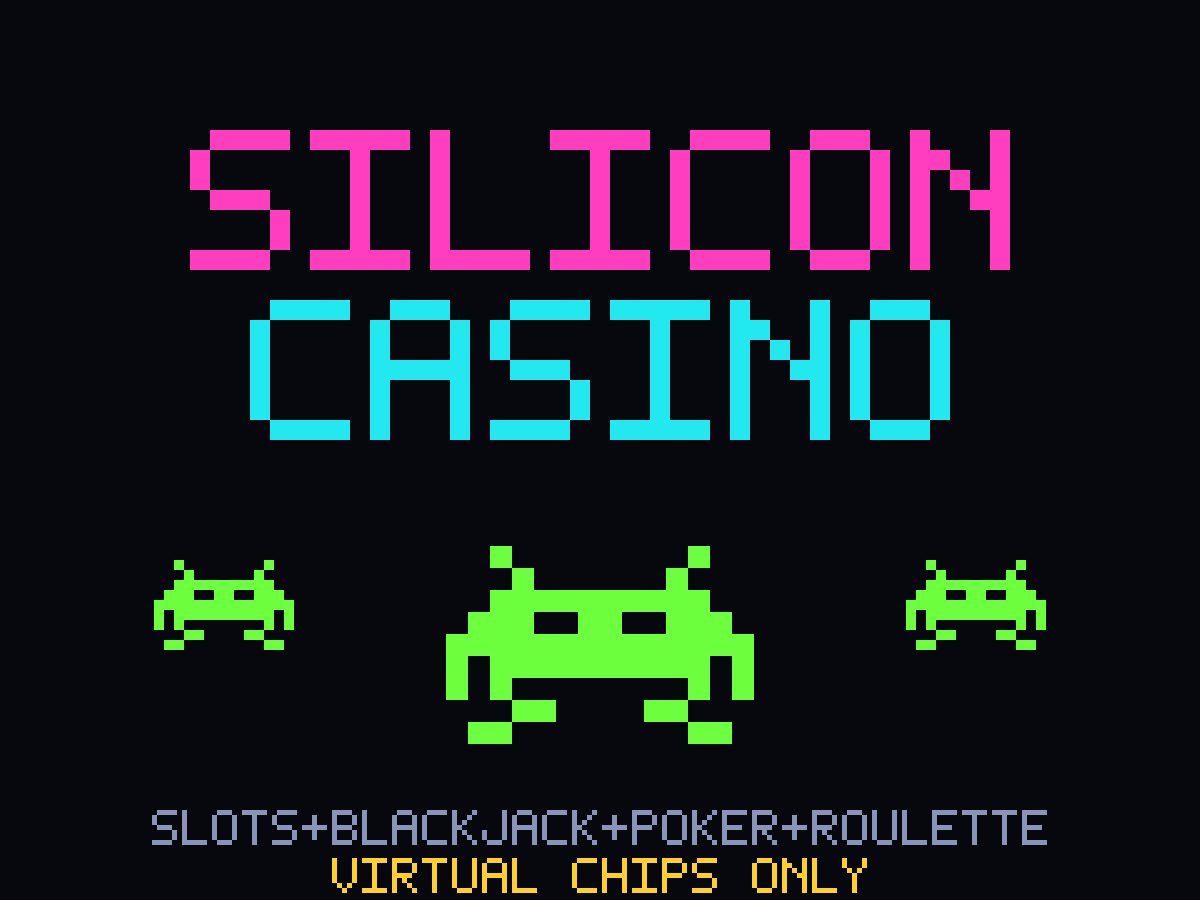
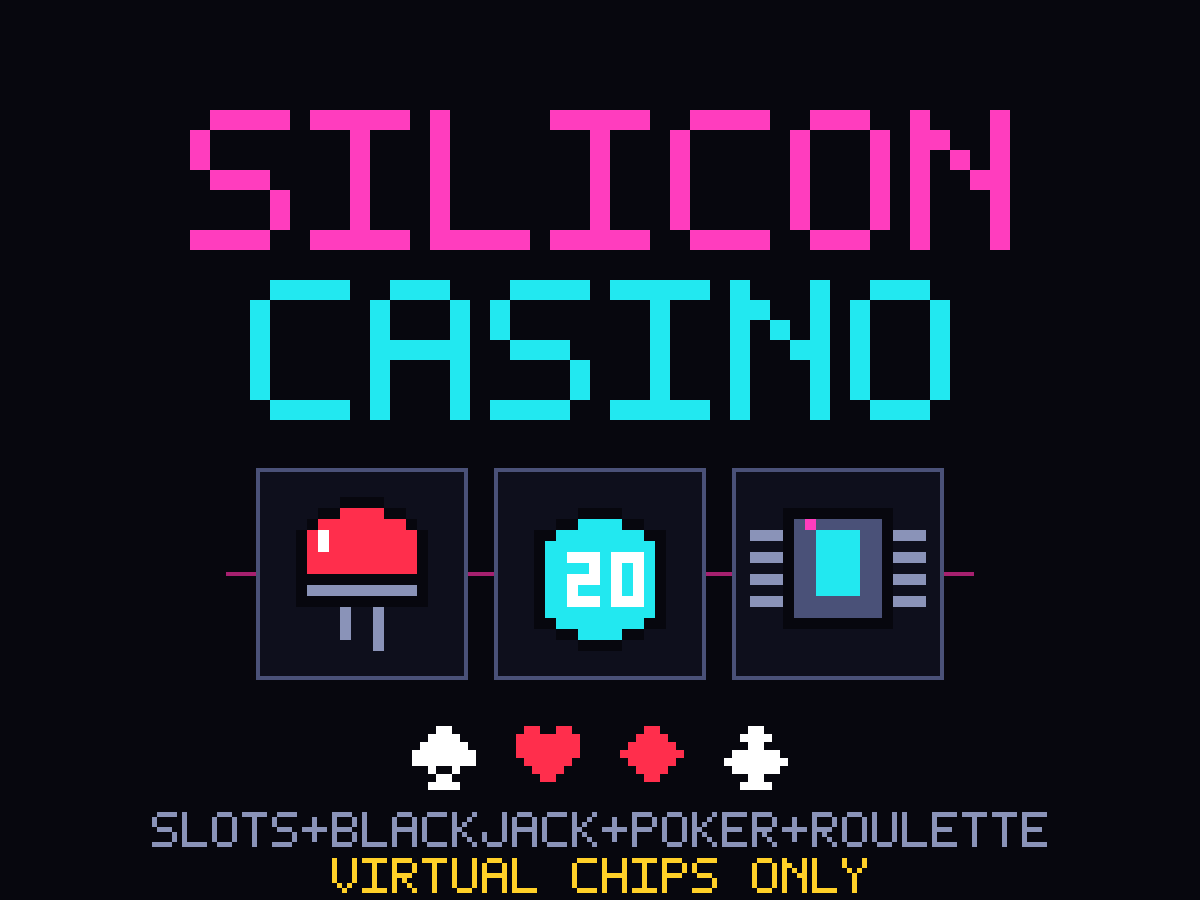
Les visuels de publication disent casino — jamais l'invader en affiche
Au moment de publier, constat : cover et écran de lancement, portés par
des invaders nus, disaient « jeu de Space Invaders ». Le motif porteur
devient une ligne de rouleaux — hublots, ligne de paiement, enseignes de
cartes : le cadre dit casino. Et les hublots montrent le vocabulaire réel
des rouleaux, diode · d20 · puce — jamais l'invader, qui reste le jackpot
dans le jeu mais ne le représente plus. Le d20 tient le centre : geek par
la table de jeu de rôle, casino par le dé.

Même motif aux deux endroits, mêmes sources d'art. La capture du logo se
prend ligne complète. Binaire de publication recompilé, re-validé en
écriture brute, re-haché.

diff --git a/scripts/make_store_images.py b/scripts/make_store_images.py
@@ -75,23 +75,65 @@ def make_cover():
                 if 0 <= x + dx < W and 0 <= y + dy < H:
                     img.putpixel((x + dx, y + dy), colour)
 
+    def frame(x, y, w, h, t, colour):
+        px(x, y, 1, colour) if False else None
+        for i in range(t):
+            for xx in range(x + i, x + w - i):
+                img.putpixel((xx, y + i), colour)
+                img.putpixel((xx, y + h - 1 - i), colour)
+            for yy in range(y + i, y + h - i):
+                img.putpixel((x + i, yy), colour)
+                img.putpixel((x + w - 1 - i, yy), colour)
+
     # Le nom, comme au boot : SILICON magenta, CASINO cyan. Échelle 20 →
     # des lettres de 140 px, encore nettes à la réduction x7 du catalogue.
     s1, s2 = "SILICON", "CASINO"
     sc = 20
-    text5x7(px, s1, (W - text_width(s1, sc)) // 2, 130, sc, PAL["magenta"])
-    text5x7(px, s2, (W - text_width(s2, sc)) // 2, 300, sc, PAL["cyan"])
+    text5x7(px, s1, (W - text_width(s1, sc)) // 2, 110, sc, PAL["magenta"])
+    text5x7(px, s2, (W - text_width(s2, sc)) // 2, 280, sc, PAL["cyan"])
 
-    # L'invader — le jackpot — au centre, encadré de deux plus petits.
-    inv = [x for x in art_symbols.SYMBOLS if x["id"] == "INVADER"][0]["art"]
-    blit_art(px, inv, (W - 16 * 22) // 2, 480, 22)
-    blit_art(px, inv, (W - 16 * 22) // 2 - 280, 530, 10)
-    blit_art(px, inv, (W - 16 * 22) // 2 + 16 * 22 + 120, 530, 10)
+    # Une ligne de rouleaux, comme à l'écran de lancement de l'appareil.
+    # Le CADRE dit « casino » (hublots, ligne de paiement, enseignes) ;
+    # les SYMBOLES disent « geek » : diode, d20, puce — le vocabulaire réel
+    # des rouleaux. JAMAIS l'invader en tête d'affiche (règle de Pierre) :
+    # il fait croire à un jeu de Space Invaders. Le d20 tient le centre —
+    # geek par la table de jeu de rôle, casino par le dé.
+    def geek(sid):
+        return [x for x in art_symbols.SYMBOLS if x["id"] == sid][0]["art"]
+    led, d20, chip = geek("LED"), geek("D20"), geek("CHIP")
+    sc2 = 11                       # 16 px d'art -> 176 px par symbole
+    win = 16 * sc2 + 36            # le hublot respire autour du symbole
+    gap = 26
+    x0 = (W - 3 * win - 2 * gap) // 2
+    wy = 468
+    mid = wy + win // 2
+    # La ligne de paiement traverse les trois hublots, sous les symboles.
+    for xx in range(x0 - 30, x0 + 3 * win + 2 * gap + 30):
+        for t in range(4):
+            img.putpixel((xx, mid + t - 2), PAL["magentaDk"])
+    for i, art in enumerate((led, d20, chip)):
+        wx = x0 + i * (win + gap)
+        for yy in range(wy, wy + win):     # fond du hublot
+            for xx in range(wx, wx + win):
+                img.putpixel((xx, yy), PAL["ink800"])
+        frame(wx, wy, win, win, 4, PAL["steel500"])
+        blit_art(px, art, wx + 18, wy + 18, sc2)
 
-    # Deux lignes de silence en bas : ce que c'est, et la règle.
+    # Les quatre enseignes entre les hublots et la règle : le casino de
+    # cartes, pas seulement celui des rouleaux.
+    suits = art_symbols.SUITS
+    order = ["SPADE", "HEART", "DIAMOND", "CLUB"]
+    ssc = 8
+    sw = 8 * ssc
+    total = 4 * sw + 3 * 40
+    sx = (W - total) // 2
+    for i, sid in enumerate(order):
+        art = suits[sid]["art"] if isinstance(suits, dict) else             [x for x in suits if x["id"] == sid][0]["art"]
+        blit_art(px, art, sx + i * (sw + 40), 726, ssc)
+
     l1 = "SLOTS+BLACKJACK+POKER+ROULETTE"
     l2 = "VIRTUAL CHIPS ONLY"
-    text5x7(px, l1, (W - text_width(l1, 5)) // 2, 810, 5, PAL["steel300"])
+    text5x7(px, l1, (W - text_width(l1, 5)) // 2, 812, 5, PAL["steel300"])
     text5x7(px, l2, (W - text_width(l2, 5)) // 2, 858, 5, PAL["yellow"])
 
     img.save(OUT / "01-cover.png")

diff --git a/lib/ui/boot_fx.cpp b/lib/ui/boot_fx.cpp
@@ -115,14 +115,24 @@ void drawLogo(lgfx::LGFX_Sprite& g, uint32_t frame, float p) {
     const float fade = (1.0f - p) * (1.0f - p);
     drawNoise(g, frame, fade * 0.30f);
 
-    const int cy = kScreenH / 2 - 16;
+    const int cy = kScreenH / 2 - 20;
     drawText(g, "SILICON", kScreenW / 2, cy, P::magenta, 3, Align::Center);
     drawText(g, "CASINO", kScreenW / 2, cy + 24, P::cyan, 3, Align::Center);
 
-    // Trois invaders sous le nom, qui apparaissent l'un après l'autre.
+    // Une ligne de rouleaux sous le nom, qui se verrouille comme au jeu.
+    // C'est le CADRE qui dit « casino » — hublots, ligne de paiement — et
+    // les SYMBOLES qui disent « geek » : diode, d20, puce, le vocabulaire
+    // réel des rouleaux. JAMAIS l'invader ici (règle de Pierre) : en
+    // tête d'affiche il fait croire à un jeu de Space Invaders. Le d20
+    // tient le centre — geek par la table de jeu de rôle, casino par le
+    // dé. L'invader reste le jackpot DANS le jeu, pas sur l'affiche.
     const int n = static_cast<int>(p * 4.0f);
+    static const uint8_t kLine[3] = {core::SYM_LED, core::SYM_D20,
+                                     core::SYM_CHIP};
     for (int i = 0; i < 3 && i < n; ++i) {
-        drawSymbol(g, core::SYM_INVADER, kScreenW / 2 - 40 + i * 28, cy + 48, 1);
+        const int x = kScreenW / 2 - 40 + i * 28;
+        drawFrame(g, x - 3, cy + 45, 22, 22, P::steel500, 1);
+        drawSymbol(g, kLine[i], x, cy + 48, 1);
     }
 }
 

diff --git a/src/main_sim.cpp b/src/main_sim.cpp
@@ -152,7 +152,7 @@ int runCapture() {
             // tard : c'est là que les huit lignes sont toutes affichées.
             static const BootShot kBoots[] = {
                 {200, "boot_noise.bmp"}, {600, "boot_bars.bmp"},
-                {2250, "boot_test.bmp"}, {2900, "boot_logo.bmp"},
+                {2250, "boot_test.bmp"}, {3060, "boot_logo.bmp"},
             };
             app.screen = core::AppScreen::Boot;
             app.bootT0 = 0;

diff --git a/docs/DECISIONS.md b/docs/DECISIONS.md
@@ -2,6 +2,31 @@
 
 Une entrée par décision actée avec Pierre. Les plus récentes en haut.
 
+## D-041 — 2026-08-13 — Les visuels de publication disent « casino » — et jamais l'invader en tête d'affiche
+
+Constat de Pierre au moment de publier : la cover et l'écran de
+lancement, portés par des space invaders nus, disaient « geek » voire
+« jeu de Space Invaders » — pas « casino ». Deux corrections en escalade,
+la seconde devenant une **règle** :
+
+1. Le motif porteur devient une **ligne de rouleaux** : trois hublots,
+   ligne de paiement, enseignes de cartes. C'est le CADRE qui dit casino.
+2. **Jamais l'invader en tête d'affiche** : il fait croire à un jeu de
+   Space Invaders. Les hublots montrent le vocabulaire réel des rouleaux
+   — **diode · d20 · puce** — le d20 au centre parce qu'il est double :
+   geek par la table de jeu de rôle, casino par le dé. L'invader reste le
+   jackpot DANS le jeu (D-009 inchangé) ; il ne représente plus le jeu.
+
+Appliqué aux deux endroits d'un même motif : l'écran de lancement (les
+hublots se verrouillent l'un après l'autre, comme des rouleaux) et la
+cover M5Burner (mêmes sources d'art, échelle 11, plus les quatre
+enseignes). La capture du logo se prend à 3060 ms — au moment où la
+ligne est complète, pas aux deux tiers.
+
+Le binaire figé de D-040 était périmé par ce changement : recompilé
+propre, re-flashé en écriture brute à l'adresse 0, re-haché — le
+document de publication porte le nouveau sha256.
+
 ## D-040 — 2026-08-13 — Kit de publication : cover M5Burner, mosaïque et GIF ; la stratégie reste hors dépôt
 
 Préparation de la sortie M5Burner + Reddit, sur la doctrine éprouvée par
